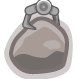
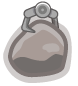
update Collectable Item Class

diff --git a/src/GameScene/MainGame.js b/src/GameScene/MainGame.js
@@ -5,8 +5,82 @@ const C_ITEMS = {
     Gold_03: 4,
     Diamond: 5,
     Rock_00: 6,
-    Rock_01: 7
+    Rock_01: 7,
 };
+
+let C_ITEM = cc.Sprite.extend({
+    sourceSprite: null,
+    pickedHookSprite: null,
+    value: 0,
+    weight: 0,
+    ctor: function (itemEnum) {
+        this._super();
+
+        switch (itemEnum)
+        {
+            case C_ITEMS.Gold_00:
+                this.sourceSprite = res.gold_00;
+                this.pickedHookSprite = res.picked_gold_00;
+                this.value = 50;
+                this.weight = 5;
+                break;
+            case C_ITEMS.Gold_01:
+                this.sourceSprite = res.gold_01;
+                this.pickedHookSprite = res.picked_gold_01;
+                this.value = 150;
+                this.weight = 10;
+                break;
+            case C_ITEMS.Gold_02:
+                this.sourceSprite = res.gold_02;
+                this.pickedHookSprite = res.picked_gold_02;
+                this.value = 350;
+                this.weight = 20;
+                break;
+            case C_ITEMS.Gold_03:
+                this.sourceSprite = res.gold_03;
+                this.pickedHookSprite = res.picked_gold_03;
+                this.value = 500;
+                this.weight = 30;
+                break;
+            case C_ITEMS.Rock_00:
+                this.sourceSprite = res.rock_00;
+                this.pickedHookSprite = res.picked_rock_00;
+                this.value = 20;
+                this.weight = 20;
+                break;
+            case C_ITEMS.Rock_01:
+                this.sourceSprite = res.rock_01;
+                this.pickedHookSprite = res.rock_01;
+                this.value = 50;
+                this.weight = 30;
+                break;
+            case C_ITEMS.Diamond:
+                this.sourceSprite = res.diamond;
+                this.pickedHookSprite = res.diamond;
+                this.value = 850;
+                this.weight = 1;
+                break;
+        }
+
+        this.setTexture(this.sourceSprite);
+        this.zIndex = 5;
+    },
+
+    getValue()
+    {
+        return this.value;
+    },
+
+    getWeight()
+    {
+        return this.weight;
+    },
+
+    getPickedHookSprite()
+    {
+        return this.pickedHookSprite;
+    }
+});
 
 
 let MainGameLayer = cc.Layer.extend({
@@ -64,7 +138,7 @@ let MainGameLayer = cc.Layer.extend({
         cc.eventManager.addListener(cc.EventListener.create({
             event: cc.EventListener.TOUCH_ONE_BY_ONE,
             swallowTouches: true,
-            onTouchBegan: (touch, event) => {
+            onTouchBegan: () => {
                 if (!this.isDropping) {
                     this.toggleIsDropping();
                 }
@@ -75,7 +149,7 @@ let MainGameLayer = cc.Layer.extend({
         this.scheduleUpdate();
     },
 
-    update(dt) {
+    update() {
         this.swing();
 
         if (this.isDropping) {
@@ -85,7 +159,7 @@ let MainGameLayer = cc.Layer.extend({
 
     // Init
     initialization() {
-        
+
         this.minimumRopeLength = 50;
         this.maximumRopeLength = 600;
 
@@ -288,70 +362,23 @@ let MainGameLayer = cc.Layer.extend({
     },
 
     createCollectableItems() {
-        let keys = Object.keys(C_ITEMS);
-        this.collectableItemsSlots.forEach((position, index) => {
-            let randomID = Math.round(Math.random() * keys.length);
-            let item = C_ITEMS[keys[randomID]];
+        let item = new C_ITEM(C_ITEMS.Diamond);
+        item.setPosition(cc.winSize.width / 2, cc.winSize.height / 2);
+        this.addChild(item);
 
-            let obj = this.createObjectWithTag(this.getResourceC_ITEMS(item), 5, item);
-            obj.setPosition(position);
-            this.collectableItems.push(obj);
+        this.collectableItems.push(item);
 
-            console.log(randomID);
-        });
-    },
-
-
-    //Utilities
-    createObjectWithTag(sprite, zOrder, tag)
-    {
-        let obj = cc.Sprite.create(sprite);
-        this.addChild(obj, zOrder, tag);
-        return obj;
-    },
-    
-    getResourceC_ITEMS (item)
-    {
-      switch (item)
-      {
-          case C_ITEMS.Rock_00:
-              return res.rock_00;
-          case C_ITEMS.Rock_01:
-              return res.rock_01;
-          case C_ITEMS.Gold_00:
-              return res.gold_00;
-          case C_ITEMS.Gold_01:
-              return res.gold_01;
-          case C_ITEMS.Gold_02:
-              return res.gold_02;
-          case C_ITEMS.Gold_03:
-              return res.gold_03;
-          case C_ITEMS.Diamond:
-              return res.diamond;
-      }
-      return null;
-    },
-
-    getResourcePicked_ITEM(item)
-    {
-        switch (item)
-        {
-            case C_ITEMS.Rock_00:
-                return res.picked_rock_00;
-            case C_ITEMS.Rock_01:
-                return res.picked_rock_01;
-            case C_ITEMS.Gold_00:
-                return res.picked_gold_00;
-            case C_ITEMS.Gold_01:
-                return res.picked_gold_01;
-            case C_ITEMS.Gold_02:
-                return res.picked_gold_02;
-            case C_ITEMS.Gold_03:
-                return res.picked_gold_03;
-            case C_ITEMS.Diamond:
-                return res.picked_diamond;
-        }
-        return null;
+        // let keys = Object.keys(C_ITEMS);
+        // this.collectableItemsSlots.forEach((position) => {
+        //     let randomID = Math.round(Math.random() * keys.length);
+        //     let item = C_ITEMS[keys[randomID]];
+        //
+        //     let obj = ;
+        //     obj.setPosition(position);
+        //     this.collectableItems.push(obj);
+        //
+        //     console.log(randomID);
+        // });
     },
 
     swing() {
@@ -444,7 +471,9 @@ let MainGameLayer = cc.Layer.extend({
         * this.hookrope.settexture;
          */
 
-
+        // this.upcommingMoney = item.prototype.value;
+        // this.dropSpeed = item.prototype.dropSpeed;
+        // this.hookRope.setTexture();
 
         this.removeChild(item);
         this.collectableItems.splice(this.collectableItems.indexOf(item), 1);
